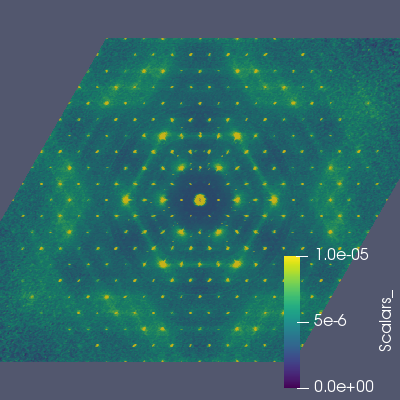
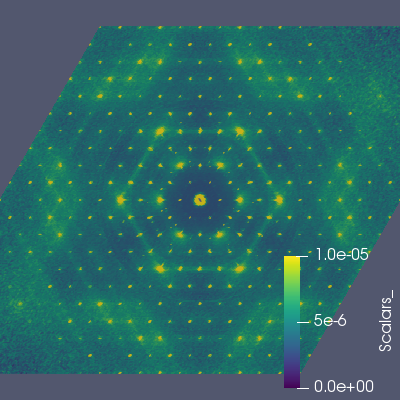
cron update

diff --git a/docs/paraview.md b/docs/paraview.md
@@ -14,7 +14,9 @@
 > laboratories, universities and industry, and has won several awards
 > related to high performance computation.
 
-To use paraview first save the data as a VTK file, see [here](export#vtk).
+To use paraview first save the data as a VTK file, see
+[here](export#vtk). The following scripts can be run from ParaView
+(_Tools->Python Shell->Run Script_) or by running in `pvpython`.
 
 ## Slices
 
@@ -23,7 +25,7 @@ To use paraview first save the data as a VTK file, see [here](export#vtk).
 from paraview.simple import *
 
 # create a new 'XML Structured Grid Reader'
-benzilvts = XMLStructuredGridReader(FileName=['/SNS/users/rwp/corelli/docs/benzil.vts'])
+benzilvts = XMLStructuredGridReader(FileName=['benzil.vts'])
 
 # get active view
 renderView1 = GetActiveViewOrCreate('RenderView')
@@ -57,7 +59,7 @@ scalars_LUT.RescaleTransferFunction(0.0, 1e-05)
 scalars_LUT.ApplyPreset('Viridis (matplotlib)', True)
 
 # current camera placement for renderView1
-renderView1.CameraPosition = [0.0, 0.0, 40]
+renderView1.CameraParallelScale = 10
 
 #### uncomment the following to render all views
 # RenderAllViews()
@@ -121,9 +123,9 @@ SaveAnimation('/tmp/benzil.png', renderView1, ImageResolution=[200, 200],
     FrameWindow=[0, 99])
 ```
 
-A series of images are created that you can convert them to an animated gif, _e.g._
-```sh
-ffmpeg -i /tmp/benzil.%04d.png benzil.gif
+A series of images are created that you can them convert to an animated gif, _e.g._ using `ffmpeg`:
+```shell
+$ ffmpeg -i /tmp/benzil.%04d.png benzil.gif
 ```
 
 ![Benzil Animation](benzil.gif)
